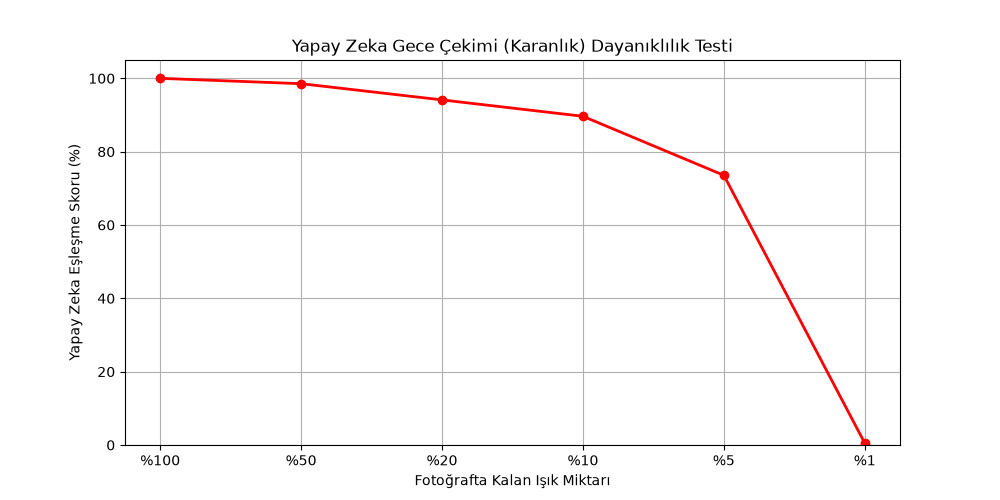
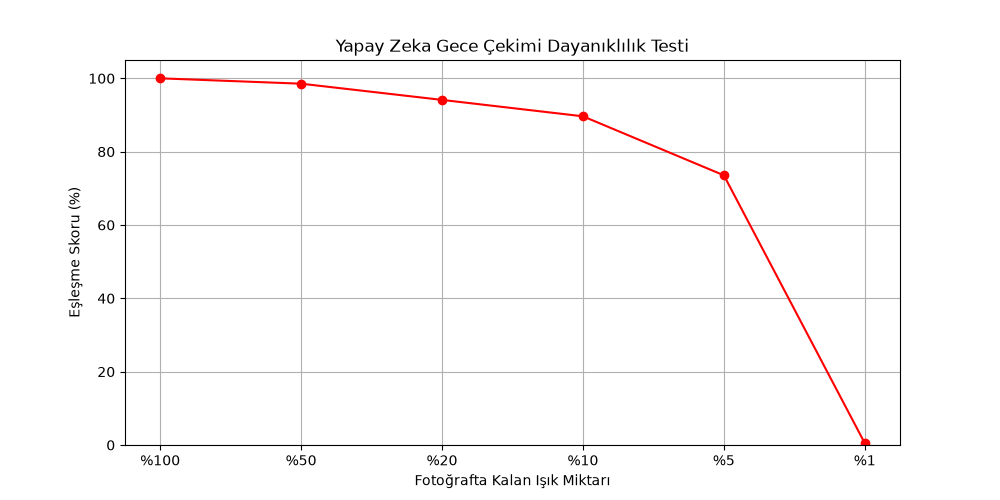
Bulanıklık ve karartma testleri birleştirildi, nihai ölçüm scripti ve grafikler hazırlandı

diff --git a/degerlendirme/bozulma_testi.py b/degerlendirme/bozulma_testi.py
@@ -23,36 +23,46 @@ def resmi_vektore_cevir(img):
 orijinal_img = Image.open("degerlendirme/test_resim.jpg").convert('RGB')
 orijinal_vektor = resmi_vektore_cevir(orijinal_img)
 
-print("\n2. Zorlu Test Başlıyor: Karartma (Gece Çekimi)...\n")
+# ==========================================
+# TEST 1: BULANIKLIK (BLUR) TESTİ
+# ==========================================
+print("\n--- TEST 1: Bulanıklık Testi Başlıyor ---")
+bulaniklik_dereceleri = [1, 5, 15, 35, 65] 
+blur_skorlar = []
 
-# 1.0 = Orijinal ışık, 0.05 = Zifiri karanlığa çok yakın
+for derece in bulaniklik_dereceleri:
+    bozuk_img = orijinal_img if derece == 1 else transforms.GaussianBlur(kernel_size=derece)(orijinal_img)
+    skor = F.cosine_similarity(orijinal_vektor, resmi_vektore_cevir(bozuk_img)).item() * 100
+    blur_skorlar.append(skor)
+    print(f"[Bulanıklık Seviyesi {derece}] -> Skor: %{skor:.2f}")
+
+plt.figure(figsize=(10, 5))
+plt.plot([str(d) for d in bulaniklik_dereceleri], blur_skorlar, marker='o', color='blue')
+plt.title('Yapay Zeka Bulanıklık Dayanıklılık Testi')
+plt.xlabel('Bulanıklık Çekirdek Boyutu')
+plt.ylabel('Eşleşme Skoru (%)')
+plt.grid(True); plt.ylim(0, 105)
+plt.savefig("degerlendirme/bulaniklik_grafigi.png")
+
+# ==========================================
+# TEST 2: KARANLIK (GECE ÇEKİMİ) TESTİ
+# ==========================================
+print("\n--- TEST 2: Karartma Testi Başlıyor ---")
 parlaklik_dereceleri = [1.0, 0.5, 0.2, 0.1, 0.05, 0.01]
-skorlar = []
+dark_skorlar = []
 
 for derece in parlaklik_dereceleri:
-    # Resmi verilen dereceye göre karartıyoruz
     kararan_img = TF.adjust_brightness(orijinal_img, derece)
-    
-    # Kararmış resmin AI skorunu ölçüyoruz
-    bozuk_vektor = resmi_vektore_cevir(kararan_img)
-    skor = F.cosine_similarity(orijinal_vektor, bozuk_vektor).item() * 100
-    skorlar.append(skor)
-    
-    durum = f"Parlaklık %{int(derece*100)}"
-    print(f"[{durum}] -> AI Eşleştirme Skoru: %{skor:.2f}")
+    skor = F.cosine_similarity(orijinal_vektor, resmi_vektore_cevir(kararan_img)).item() * 100
+    dark_skorlar.append(skor)
+    print(f"[Parlaklık %{int(derece*100)}] -> Skor: %{skor:.2f}")
 
-print("\n3. Grafik Çizdiriliyor...")
-# Topladığımız skorları çizgi grafiğine (plot) döküyoruz
 plt.figure(figsize=(10, 5))
-x_ekseni_etiketleri = [f"%{int(d*100)}" for d in parlaklik_dereceleri]
-
-plt.plot(x_ekseni_etiketleri, skorlar, marker='o', linestyle='-', color='red', linewidth=2)
-plt.title('Yapay Zeka Gece Çekimi (Karanlık) Dayanıklılık Testi')
+plt.plot([f"%{int(d*100)}" for d in parlaklik_dereceleri], dark_skorlar, marker='o', color='red')
+plt.title('Yapay Zeka Gece Çekimi Dayanıklılık Testi')
 plt.xlabel('Fotoğrafta Kalan Işık Miktarı')
-plt.ylabel('Yapay Zeka Eşleşme Skoru (%)')
-plt.grid(True)
-plt.ylim(0, 105)
-
-# Grafiği klasöre resim olarak kaydediyoruz
+plt.ylabel('Eşleşme Skoru (%)')
+plt.grid(True); plt.ylim(0, 105)
 plt.savefig("degerlendirme/karartma_grafigi.png")
-print(">>> İŞLEM TAMAM! 'degerlendirme' klasörüne 'karartma_grafigi.png' dosyası eklendi. Hemen kontrol et!")
+
+print("\n>>> İŞLEM TAMAM! İki test de yapıldı ve grafikler 'degerlendirme' klasörüne kaydedildi.")
